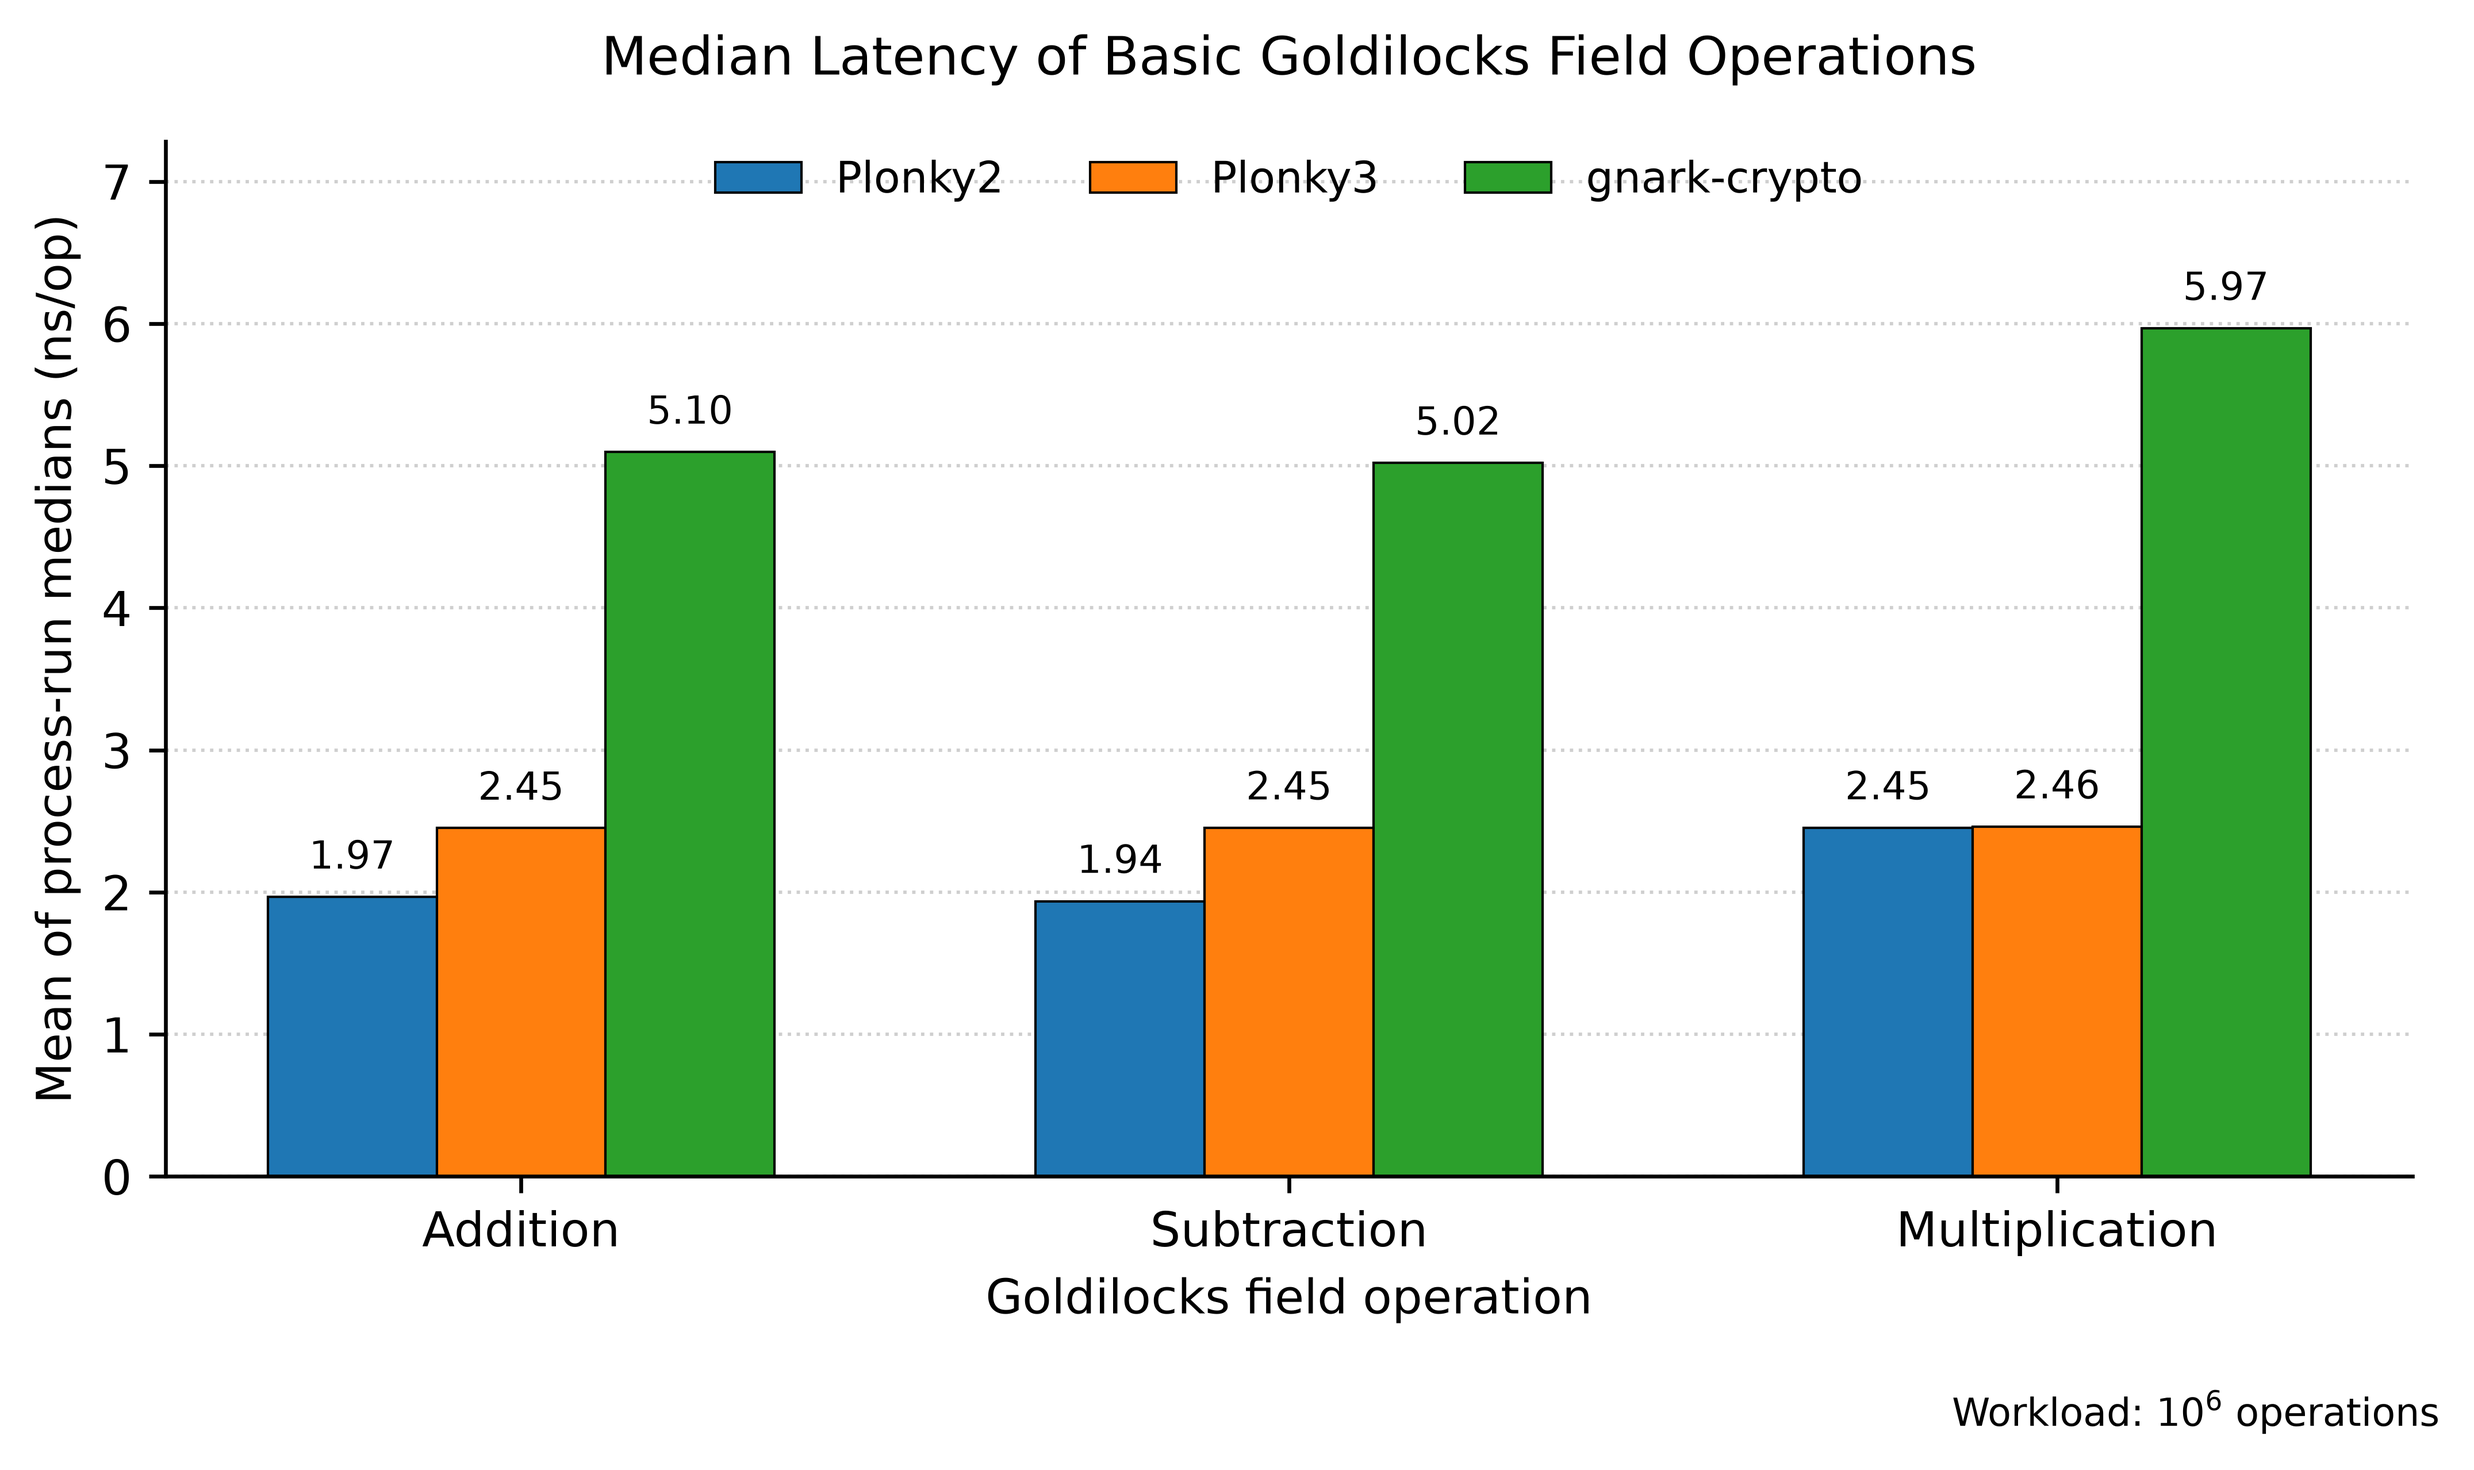
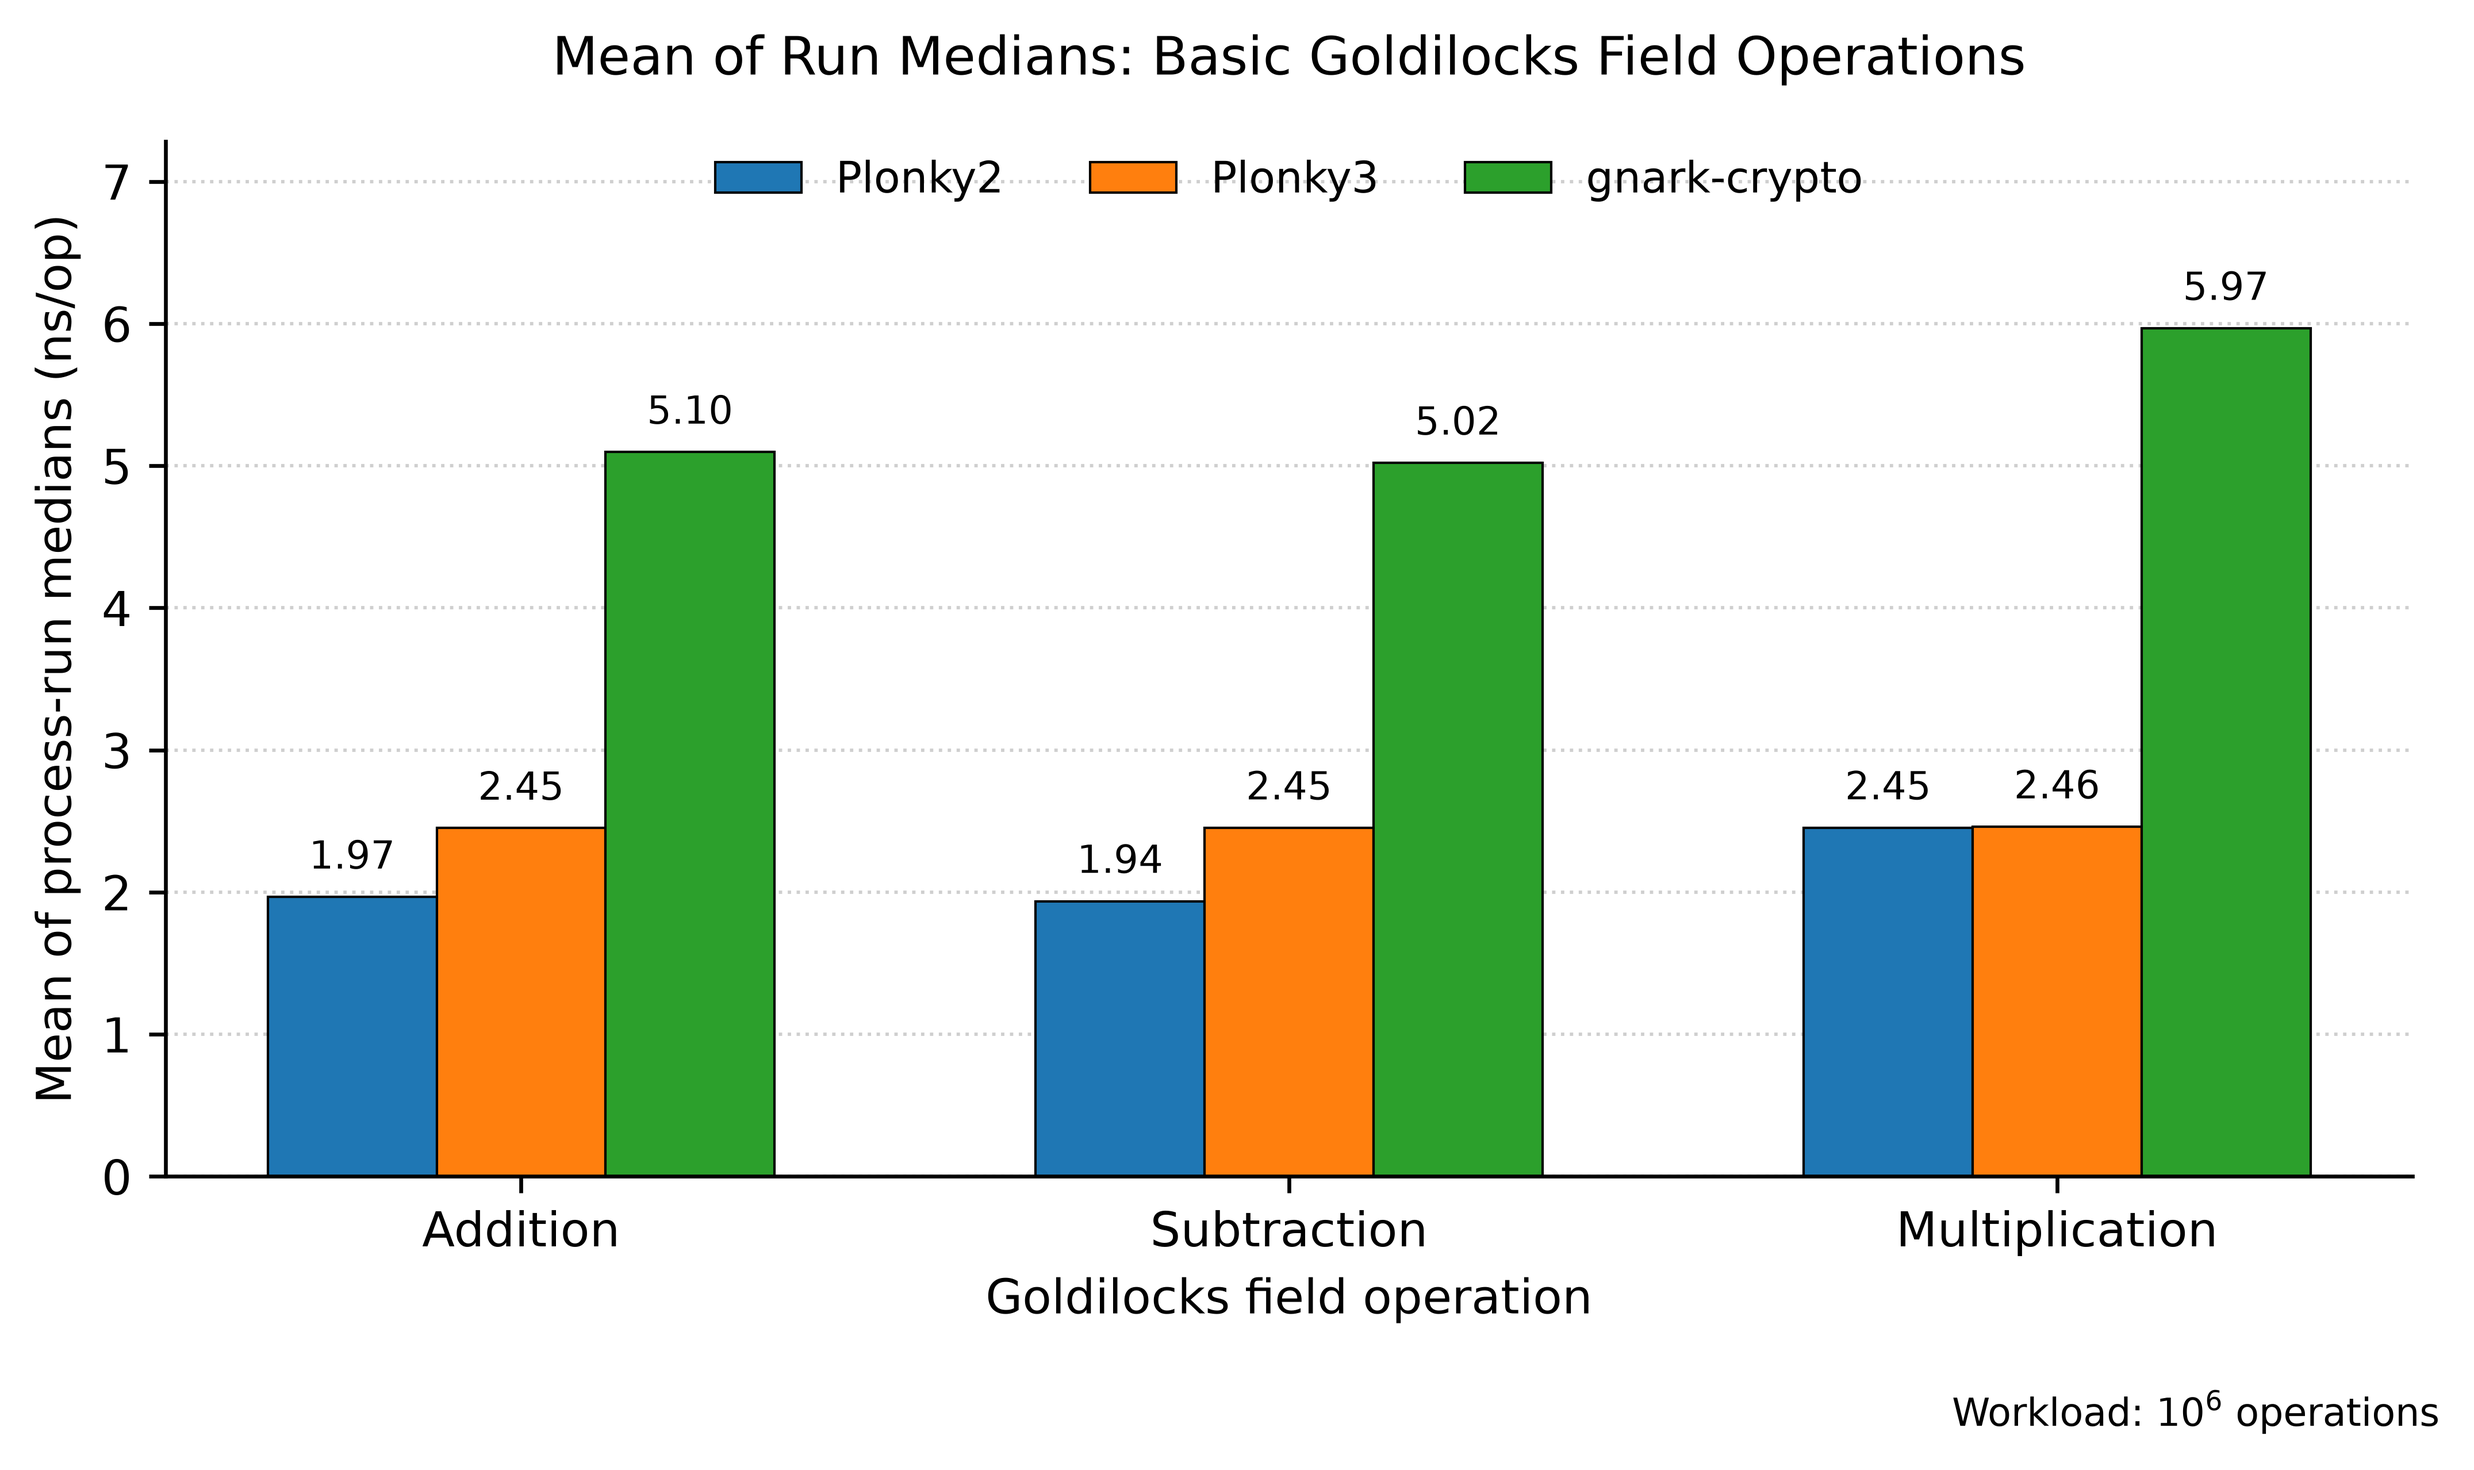
Correct performance figure titles to reflect mean of run medians

Changed region(s): [[0.218, 0.0309, 0.8097, 0.0618]]

diff --git a/analysis/plot_benchmarks.py b/analysis/plot_benchmarks.py
@@ -148,12 +148,12 @@ if __name__ == "__main__":
     performance_plot(
         ["addition", "subtraction", "multiplication"],
         "performance_basic_operations",
-        "Median Latency of Basic Goldilocks Field Operations",
+        "Mean of Run Medians: Basic Goldilocks Field Operations",
     )
     performance_plot(
         ["exponentiation", "inversion"],
         "performance_expensive_operations",
-        "Median Latency of Expensive Goldilocks Field Operations",
+        "Mean of Run Medians: Expensive Goldilocks Field Operations",
     )
     reproducibility_plot()
     print(f"Figures saved in {FIGURE_DIR}")
